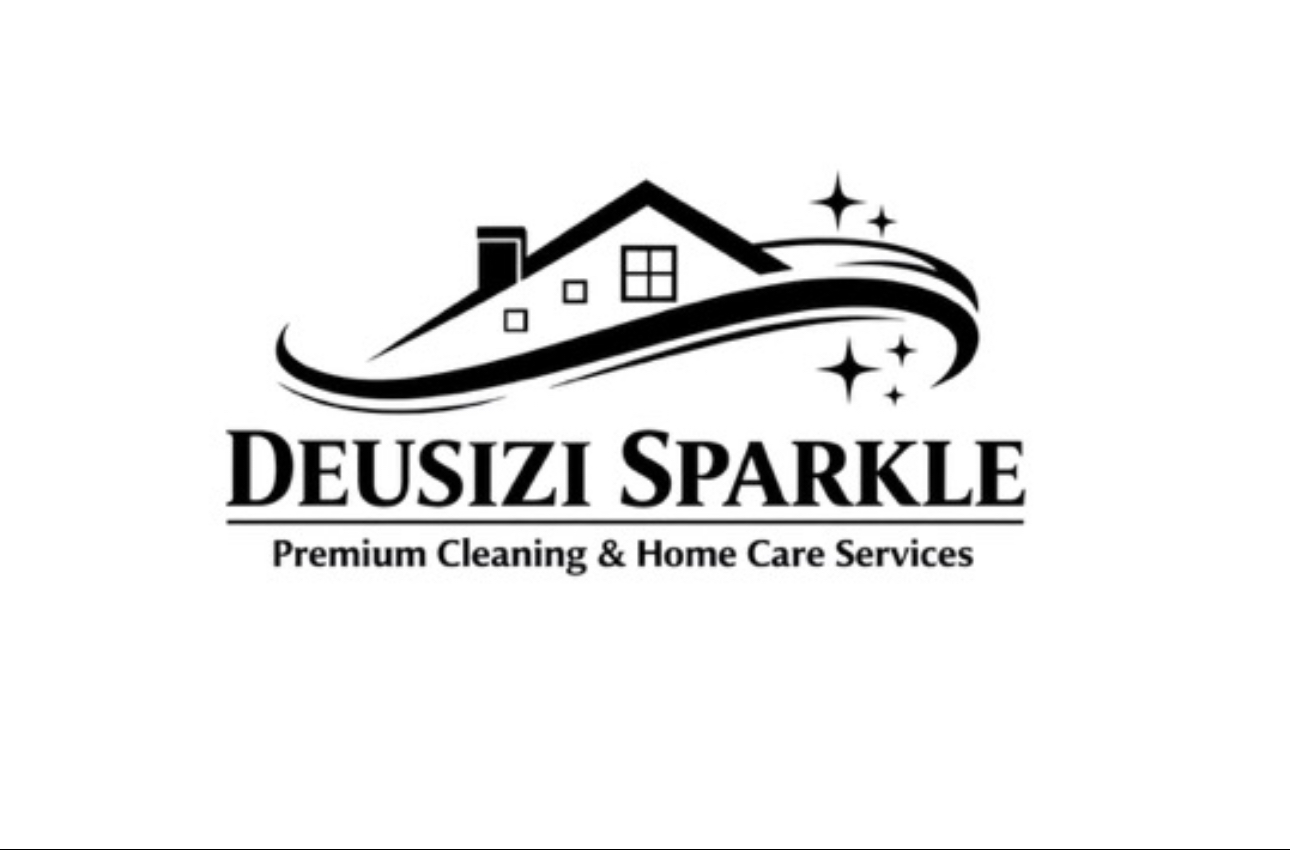
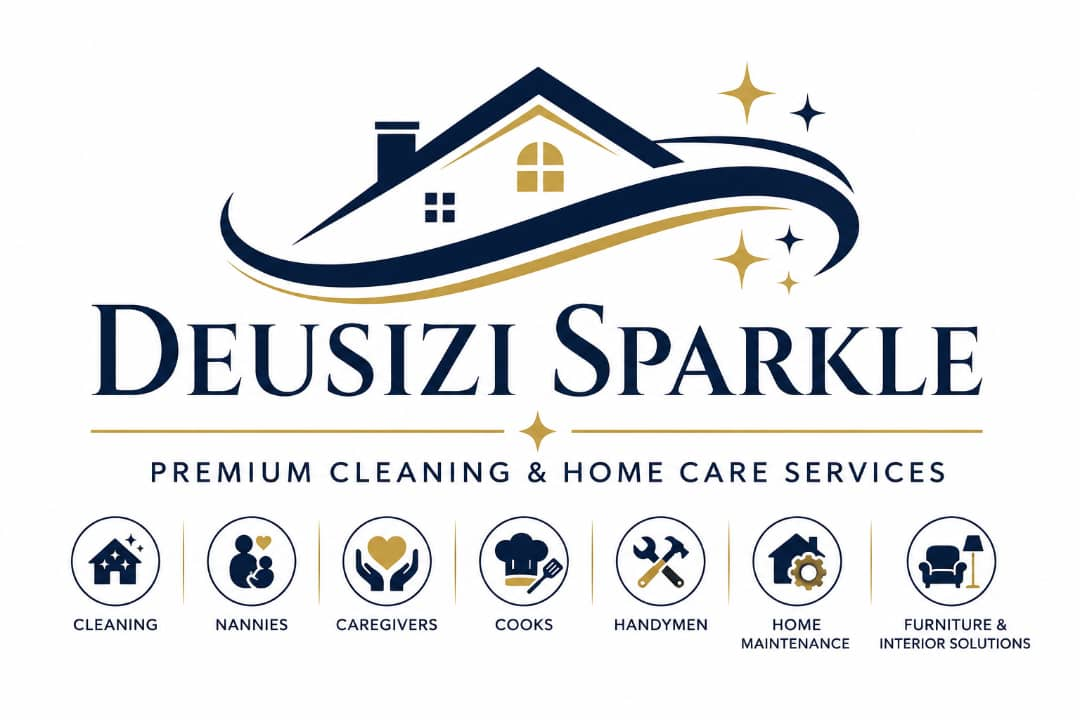
ssd

diff --git a/index.html b/index.html
@@ -2,7 +2,7 @@
 <html lang="en">
   <head>
     <meta charset="UTF-8" />
-    <link rel="icon" type="image/svg+xml" href="deusiziSparkle.jpg" />
+    <link rel="icon" type="image/svg+xml" href="deusizi.jpg" />
     <meta name="viewport" content="width=device-width, initial-scale=1.0" />
     <title>Deusizi Sparkle</title>
 